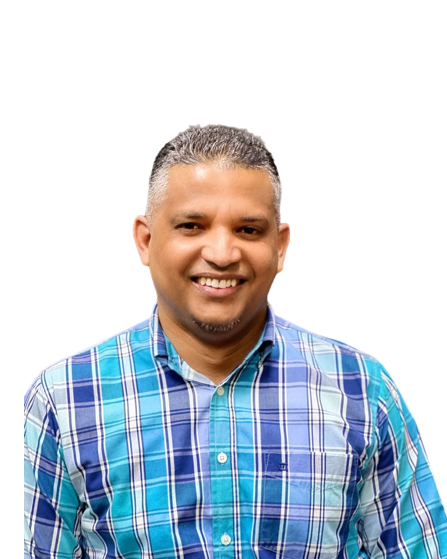
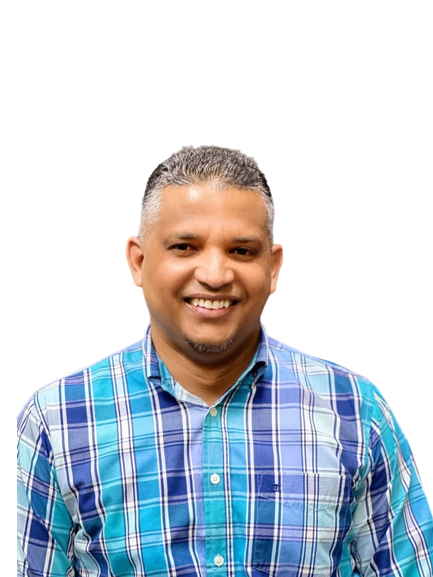
Adding some Features to Nosotros Page

diff --git a/src/components/Cards.js b/src/components/Cards.js
@@ -65,7 +65,21 @@ const Cards = ({
       } `}
     >
       <div className='rounded-full max-w-[220px] max-h-[220px] flex justify-center items-center mx-auto'>
-        <div className='bg-gradient-to-b from-red-500 via-red-900 to-black w-[230px] h-[230px] z-30 absolute rounded-full'></div>
+        <div className={`bg-gradient-to-b ${
+        puesto.includes("Gerente")
+          ? "from-sky-100"
+          : puesto.includes("Líder")
+          ? "from-yellow-800/60"
+          : puesto.includes("Medios")
+          ? "from-violet-200"
+          : puesto.includes("Procesos")
+          ? "from-green-200"
+          : puesto.includes("Sr. Operaciones")
+          ? "from-blue-200"
+          : puesto.includes("Proyectos")
+          ? "from-yellow-100"
+          : "from-white"
+      } to-black w-[230px] h-[230px] z-30 absolute rounded-full`}></div>
         <FramerImage
             src={img}
             alt={nombre}
